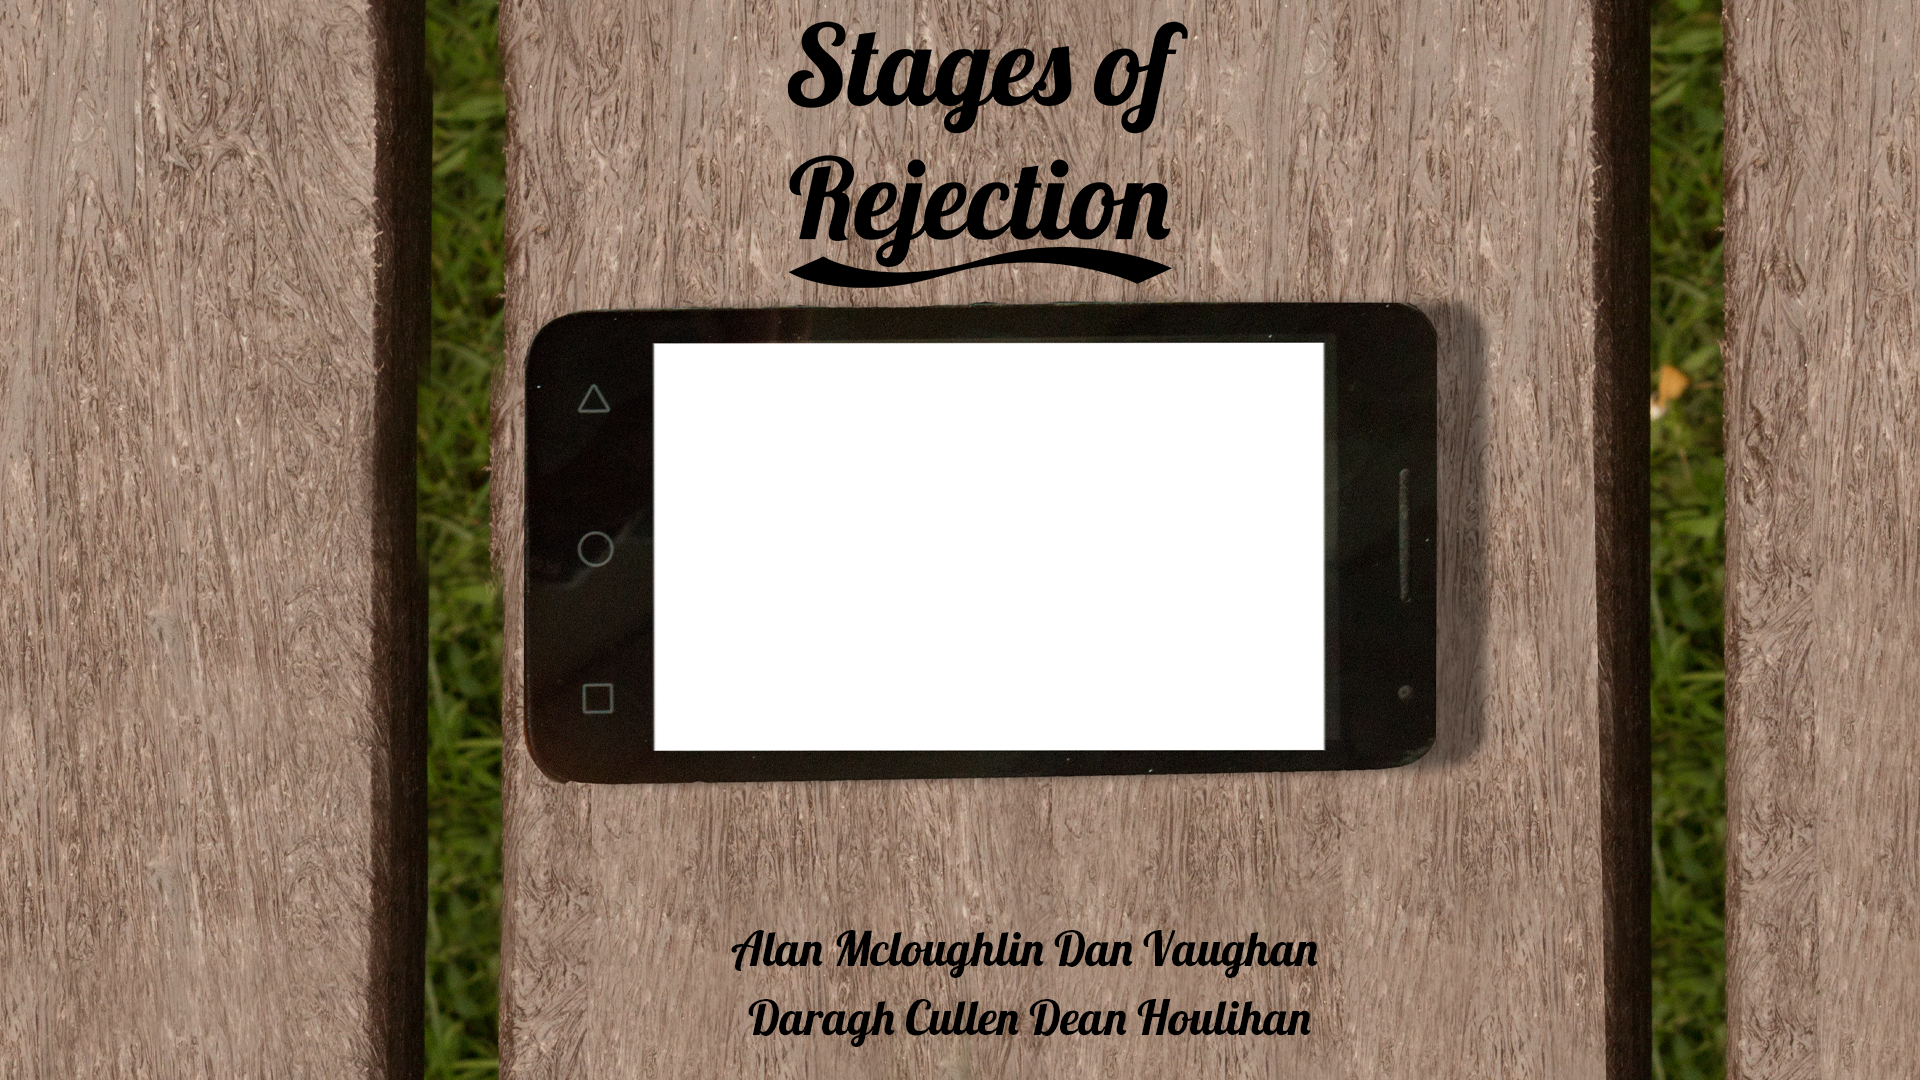
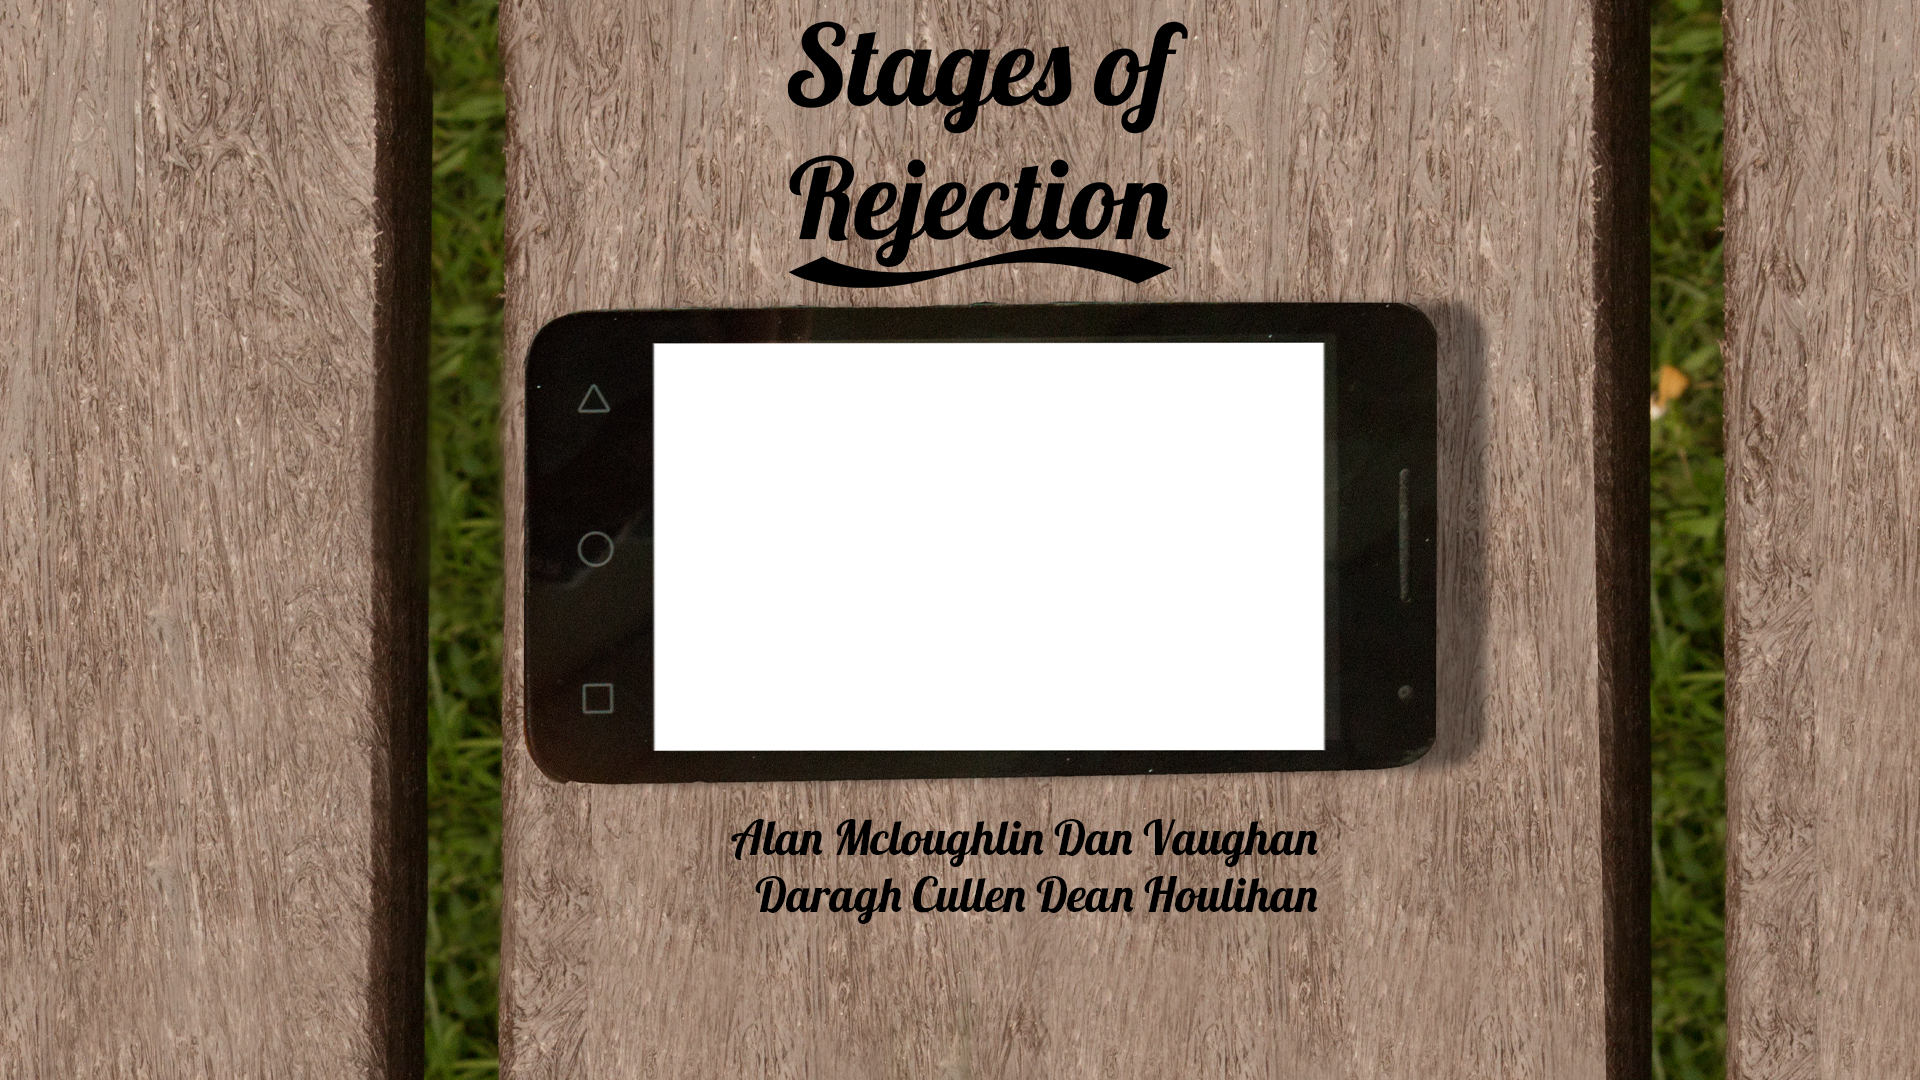
Beta V2
changed image height

Changed region(s): [[0.375, 0.7639, 0.6875, 0.9778], [0.2188, 0.275, 0.2812, 0.5806]]

diff --git a/css/style1.css b/css/style1.css
@@ -4,7 +4,7 @@
 body {
 	background-image: url(../images/background.png);
 	width: 1880px;
-	height: 1050px;
+	height: 900px;
 } 
 
 ul {
